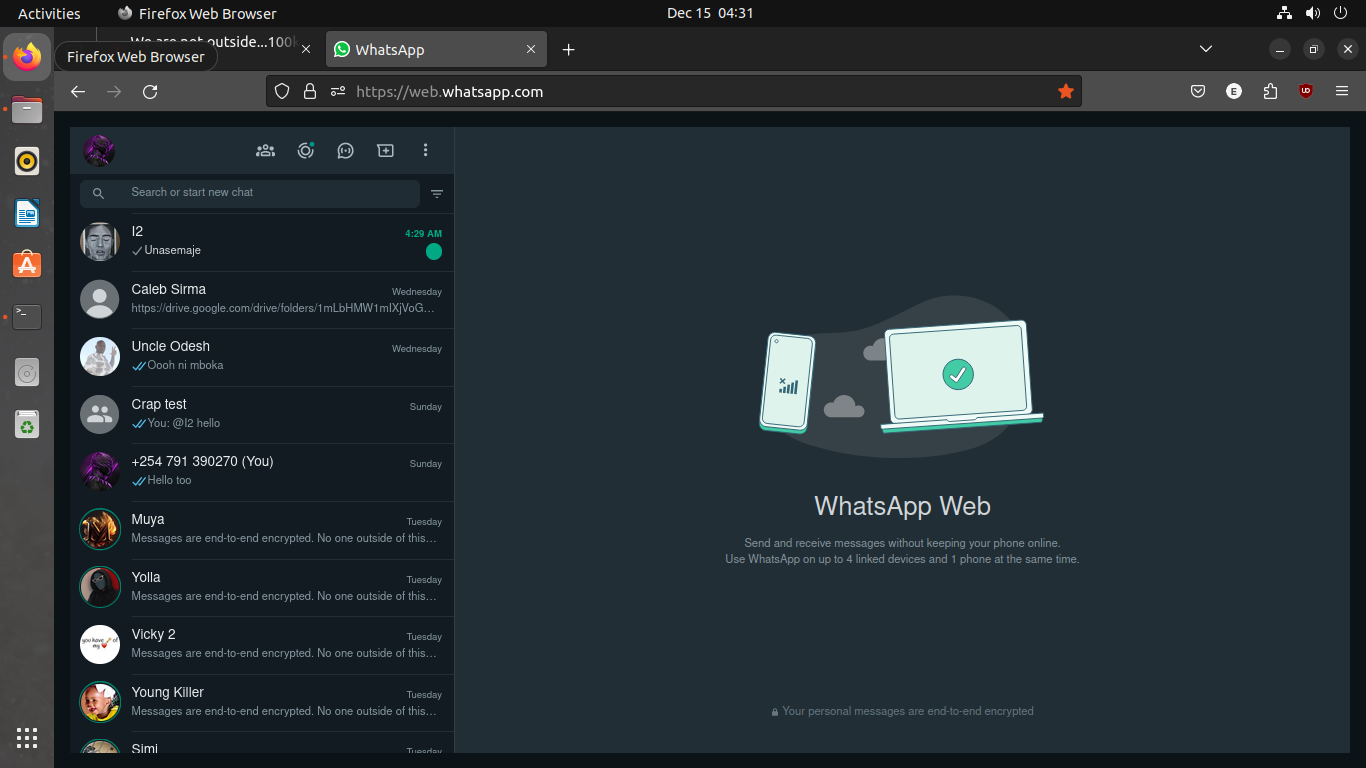
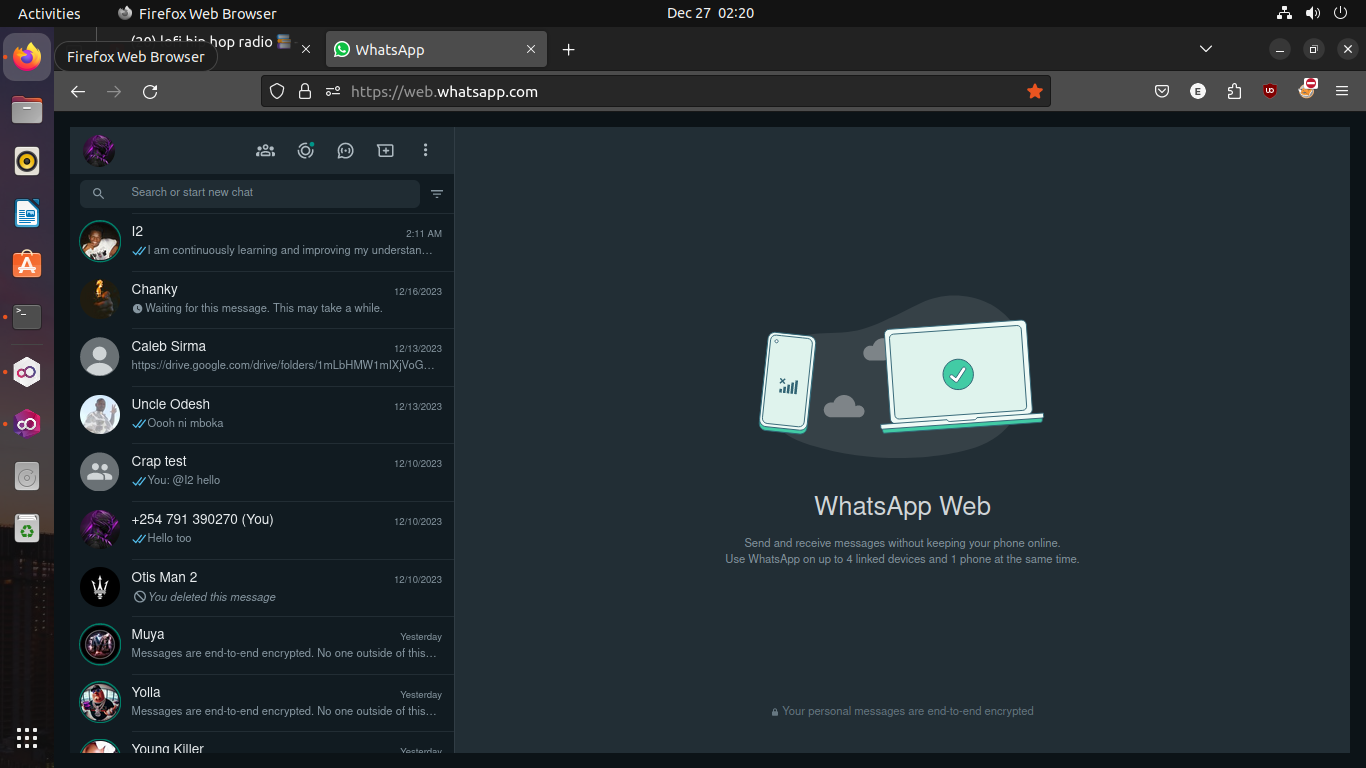
Gemini AI intergration

diff --git a/firefox.py b/firefox.py
@@ -7,6 +7,8 @@ import time
 from screen_search import *
 import tkinter as tk  
 from replies import replies
+from game import choices
+from gemini import response
 import pyscreenshot as screen
 
 #Position firefox x=25 y=53
@@ -33,22 +35,25 @@ tab = g.hotkey('ctrl', 't')
 search = g.typewrite("https://web.whatsapp.com/", interval=0.1)
 enter = g.hotkey('enter')
 time.sleep(15)
-screenshot = g.screenshot('whatsapphome.png')
-cursor = g.moveTo(x=142,y=146)
-image = screen.grab(bbox=(142,142,255,175))
-image.save("sample.png")
+def screenshot():
+    screenshot = g.screenshot('whatsapphome.png')
+    cursor = g.moveTo(x=142,y=146)
+    image = screen.grab(bbox=(142,142,255,175))
+    image.save("sample.png")
 
+screenshot()
 #Check for new messages
 while True:
     try:
         #new_message = g.moveTo(x=411 , y=253 )
 
 
-        sample = open("sample.png","rb").read()
-        dark_theme = open("dark.png","rb").read()
-        white_theme = open("white.png","rb").read()
+            
+        def themes():
+            sample = open("sample.png","rb").read()
+            dark_theme = open("dark.png","rb").read()
+            white_theme = open("white.png","rb").read()
 
-        def themes(sample):
             if sample == dark_theme:
                 theme = "new.png"
             if sample == white_theme:
@@ -56,41 +61,56 @@ while True:
 
             return theme
 
-        theme = themes(sample)
-        unread = g.locateOnScreen(theme, confidence=0.9)
-        copy = g.hotkey('ctrl', 'c')
-        g.moveTo(unread[0]-20, unread[1])
-        click = g.click()
-        time.sleep(2)
-        locate = g.moveTo(x=372, y=244)
-        locate_text = g.moveTo(x=524, y=672)
-        double_click = g.click(clicks=3)
-        copy = g.hotkey('ctrl', 'c')
+        #theme = themes(sample)
+        def unread():
+            theme = themes()
+            unread = g.locateOnScreen(theme, confidence=0.9)
+            #copy = g.hotkey('ctrl', 'c')
+            g.moveTo(unread[0]-20, unread[1])
+            click = g.click()
+            time.sleep(2)
+            locate = g.moveTo(x=372, y=244)
+            locate_text = g.moveTo(x=518, y=672)
+            time.sleep(1)
+            #locate_text = g.moveTo(x=524, y=672)
+            double_click = g.click(clicks=3)
+            copy = g.hotkey('ctrl', 'c')
 
-        #Tk
-        root = tk.Tk()
-        root.withdraw()
+            #Tk
+            root = tk.Tk()
+            root.withdraw()
 
-        paste = root.clipboard_get()
-        paste = paste.lower()
+            paste = root.clipboard_get()
+            paste = paste.lower()
 
-        time.sleep(2)
+            time.sleep(2)
 
-        #print text
-        print("Message says: \n") 
-        print(paste)
+            #print text
+            print("Message says: \n") 
+            print(paste)
+
+            return paste
+
+        unread = unread()
+        paste = unread
 
         #Reply
-
-        mess = replies(paste)
-
-        reply = g.moveTo(x=560, y=674)
-        click = g.click()
-        drop_down = g.moveTo(x=612, y=449)
-        click = g.click()
-        textbox = g.moveTo(x=562, y=729)
-        click = g.click()
-
+        #call func if numeric or word 
+        if(paste == "game"):
+            mess = choices(paste)
+        elif(paste == "stop"):
+            break
+        else:
+            mess = response(paste)
+        def textbox():
+            reply = g.moveTo(x=560, y=674)
+            click = g.click()
+            drop_down = g.moveTo(x=612, y=449)
+            click = g.click()
+            textbox = g.moveTo(x=562, y=729)
+            click = g.click()
+            
+        textbox()
         reply = g.typewrite(mess, interval=0.1)
         send = g.hotkey('enter')
     except g.ImageNotFoundException:

diff --git a/gemini.py b/gemini.py
@@ -1,0 +1,19 @@
+import google.generativeai as genai
+import os
+
+# Setting the API key
+#os.environ["google_ai_studio"] = ""
+def response(paste):
+	prompt = paste
+	# Configuring genai with the API key
+	genai.configure(api_key=os.environ["google_ai_studio"])
+
+	# Creating a GenerativeModel instance
+	model = genai.GenerativeModel('gemini-pro')
+
+	# Generating content based on the prompt
+	response = model.generate_content(contents=[prompt])  # 'contents' instead of 'content'
+
+	# Printing the generated content
+	#print(response.text)
+	return response.text

diff --git a/chat.py b/chat.py
@@ -1,0 +1,18 @@
+import openai
+
+api_key = "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"
+openai.api_key = api_key
+
+prompt = "What's the most popular ski resort in Europe?"
+
+response = openai.ChatCompletion.create(
+    model="gpt-3.5-turbo",
+    messages=[
+        {
+            "role": "user",
+            "content": prompt
+        }
+    ]
+)
+
+print(response['choices'][0]['message']['content'])

diff --git a/game.py b/game.py
@@ -1,0 +1,12 @@
+#!/bin/python3
+
+import pyautogui as g
+import tkinter as tk
+import time
+
+#select a number and determine what to do from choices
+
+def choices(paste):
+    while True:
+        message = """Lets play a game of tic tac toe: reply with 1 or x or 0 and I will reply with x or 1 or 0"""
+        return message

diff --git a/replies.py b/replies.py
@@ -25,6 +25,8 @@ def replies(paste):
 		message = "sina maneno"
 	elif paste == "we mzee" or "wee mzee":
 		message = "Unasemaje"
+	elif paste == "uko aje morio":
+		message = "Niko fiti mkuu inakuwa aje"
 	else:
 		message = "Hi"
 	return message

diff --git a/multi.py b/multi.py
@@ -1,0 +1,4 @@
+#!/bin/python3
+from  openai import OpenAI
+# Configure OpenAI API key
+openai.api_key = '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'
